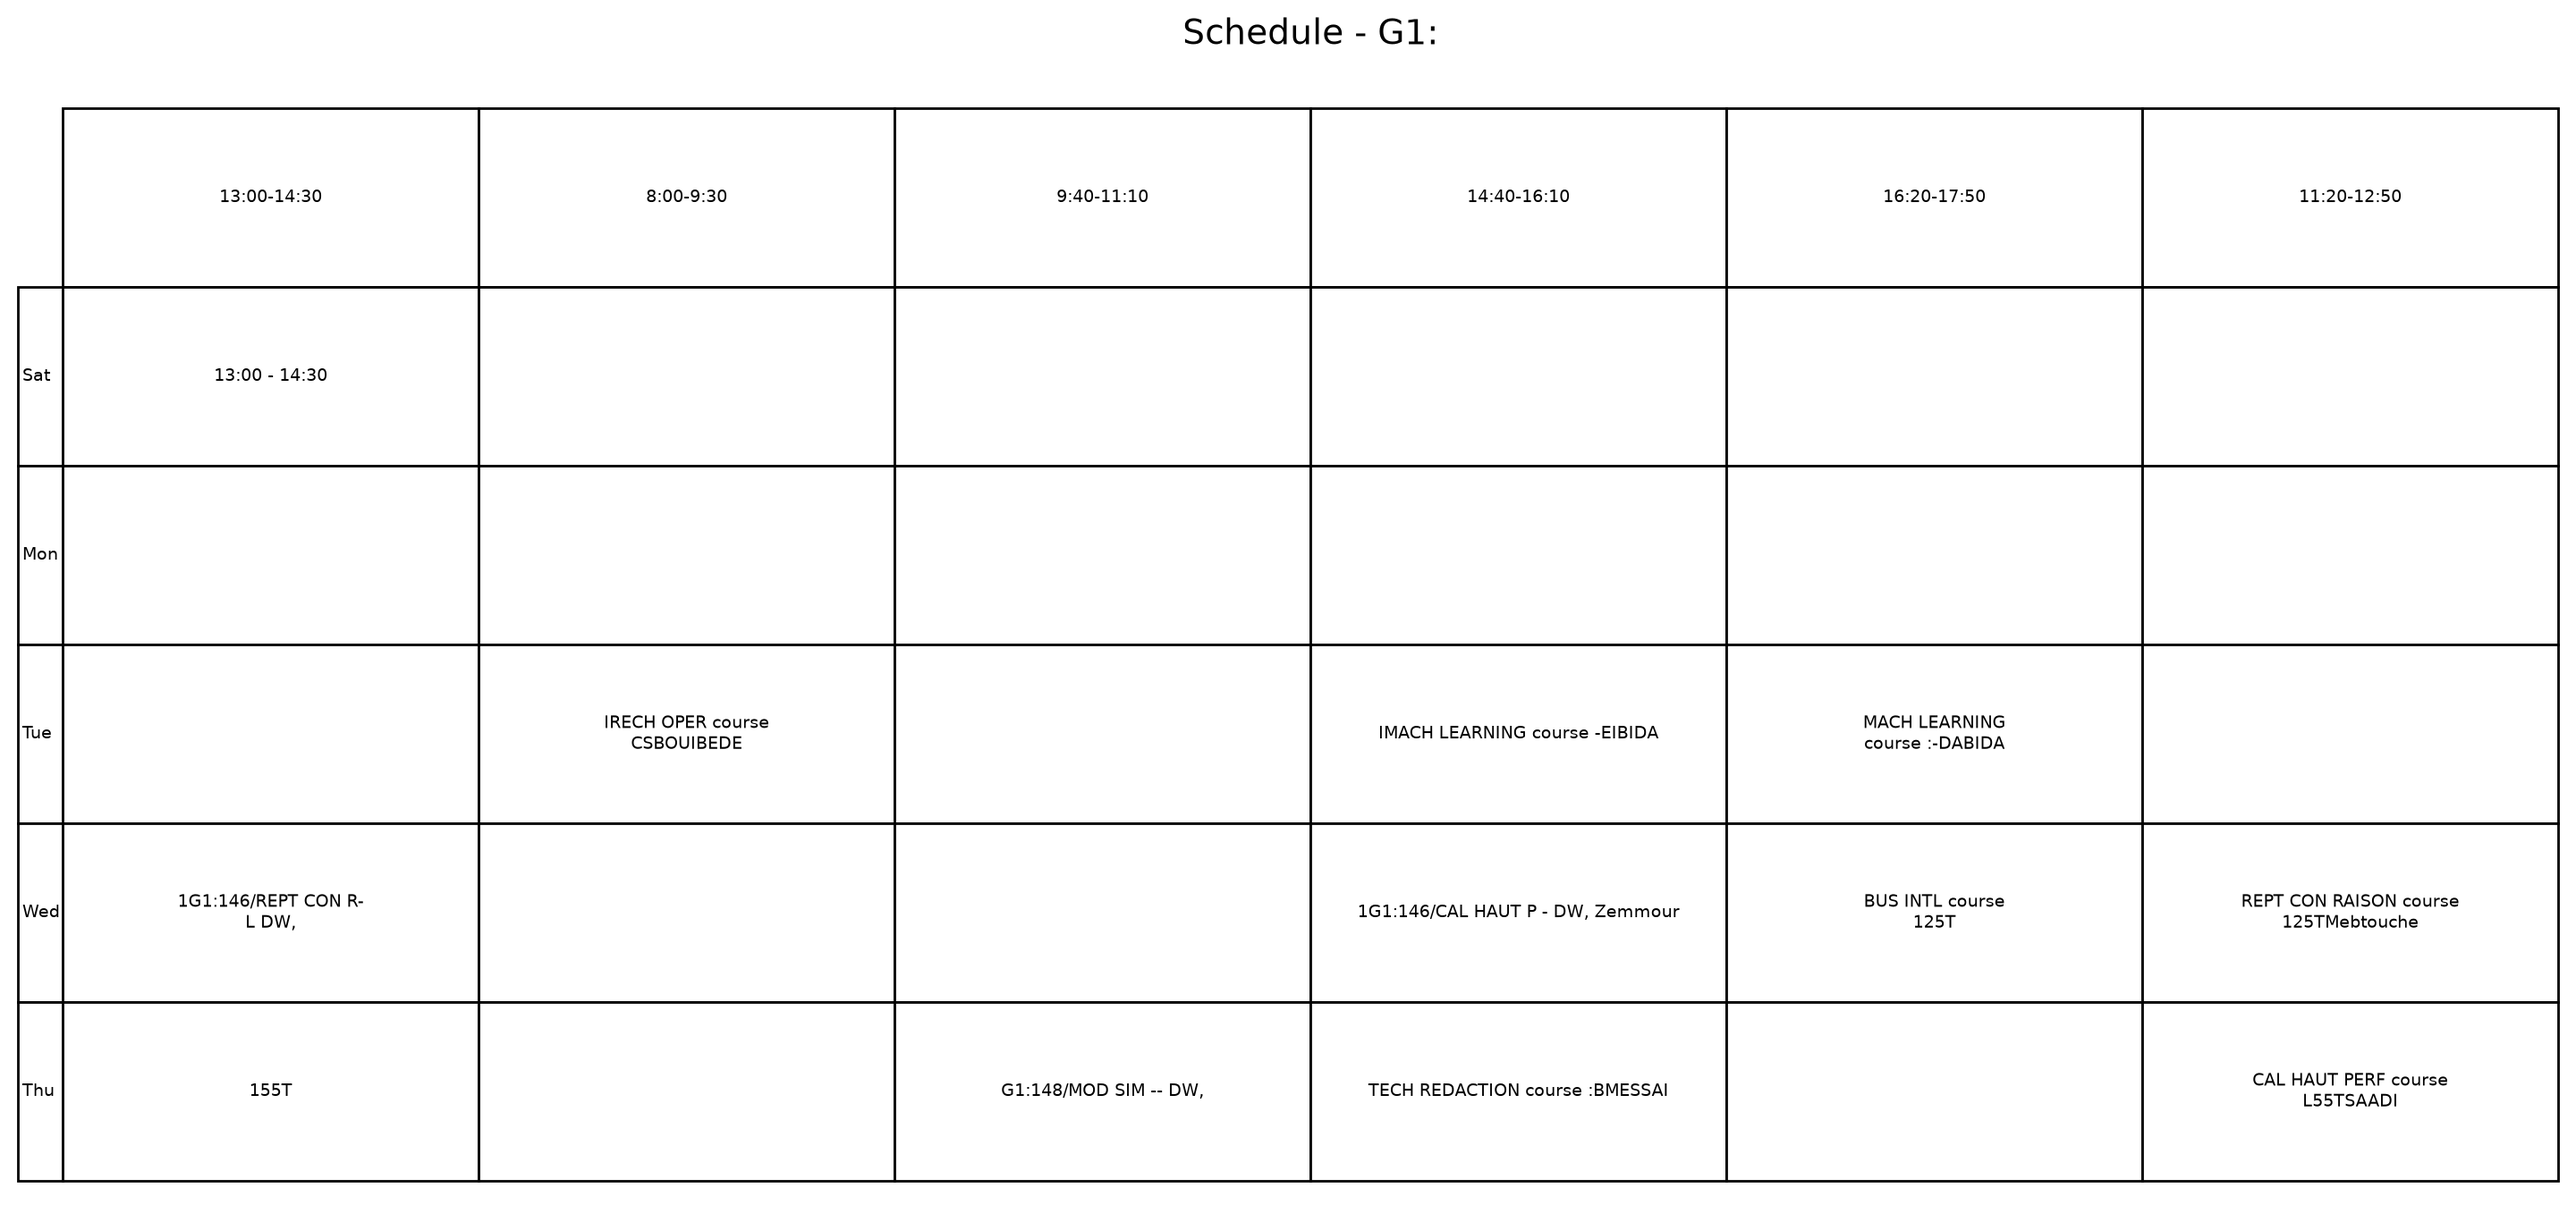
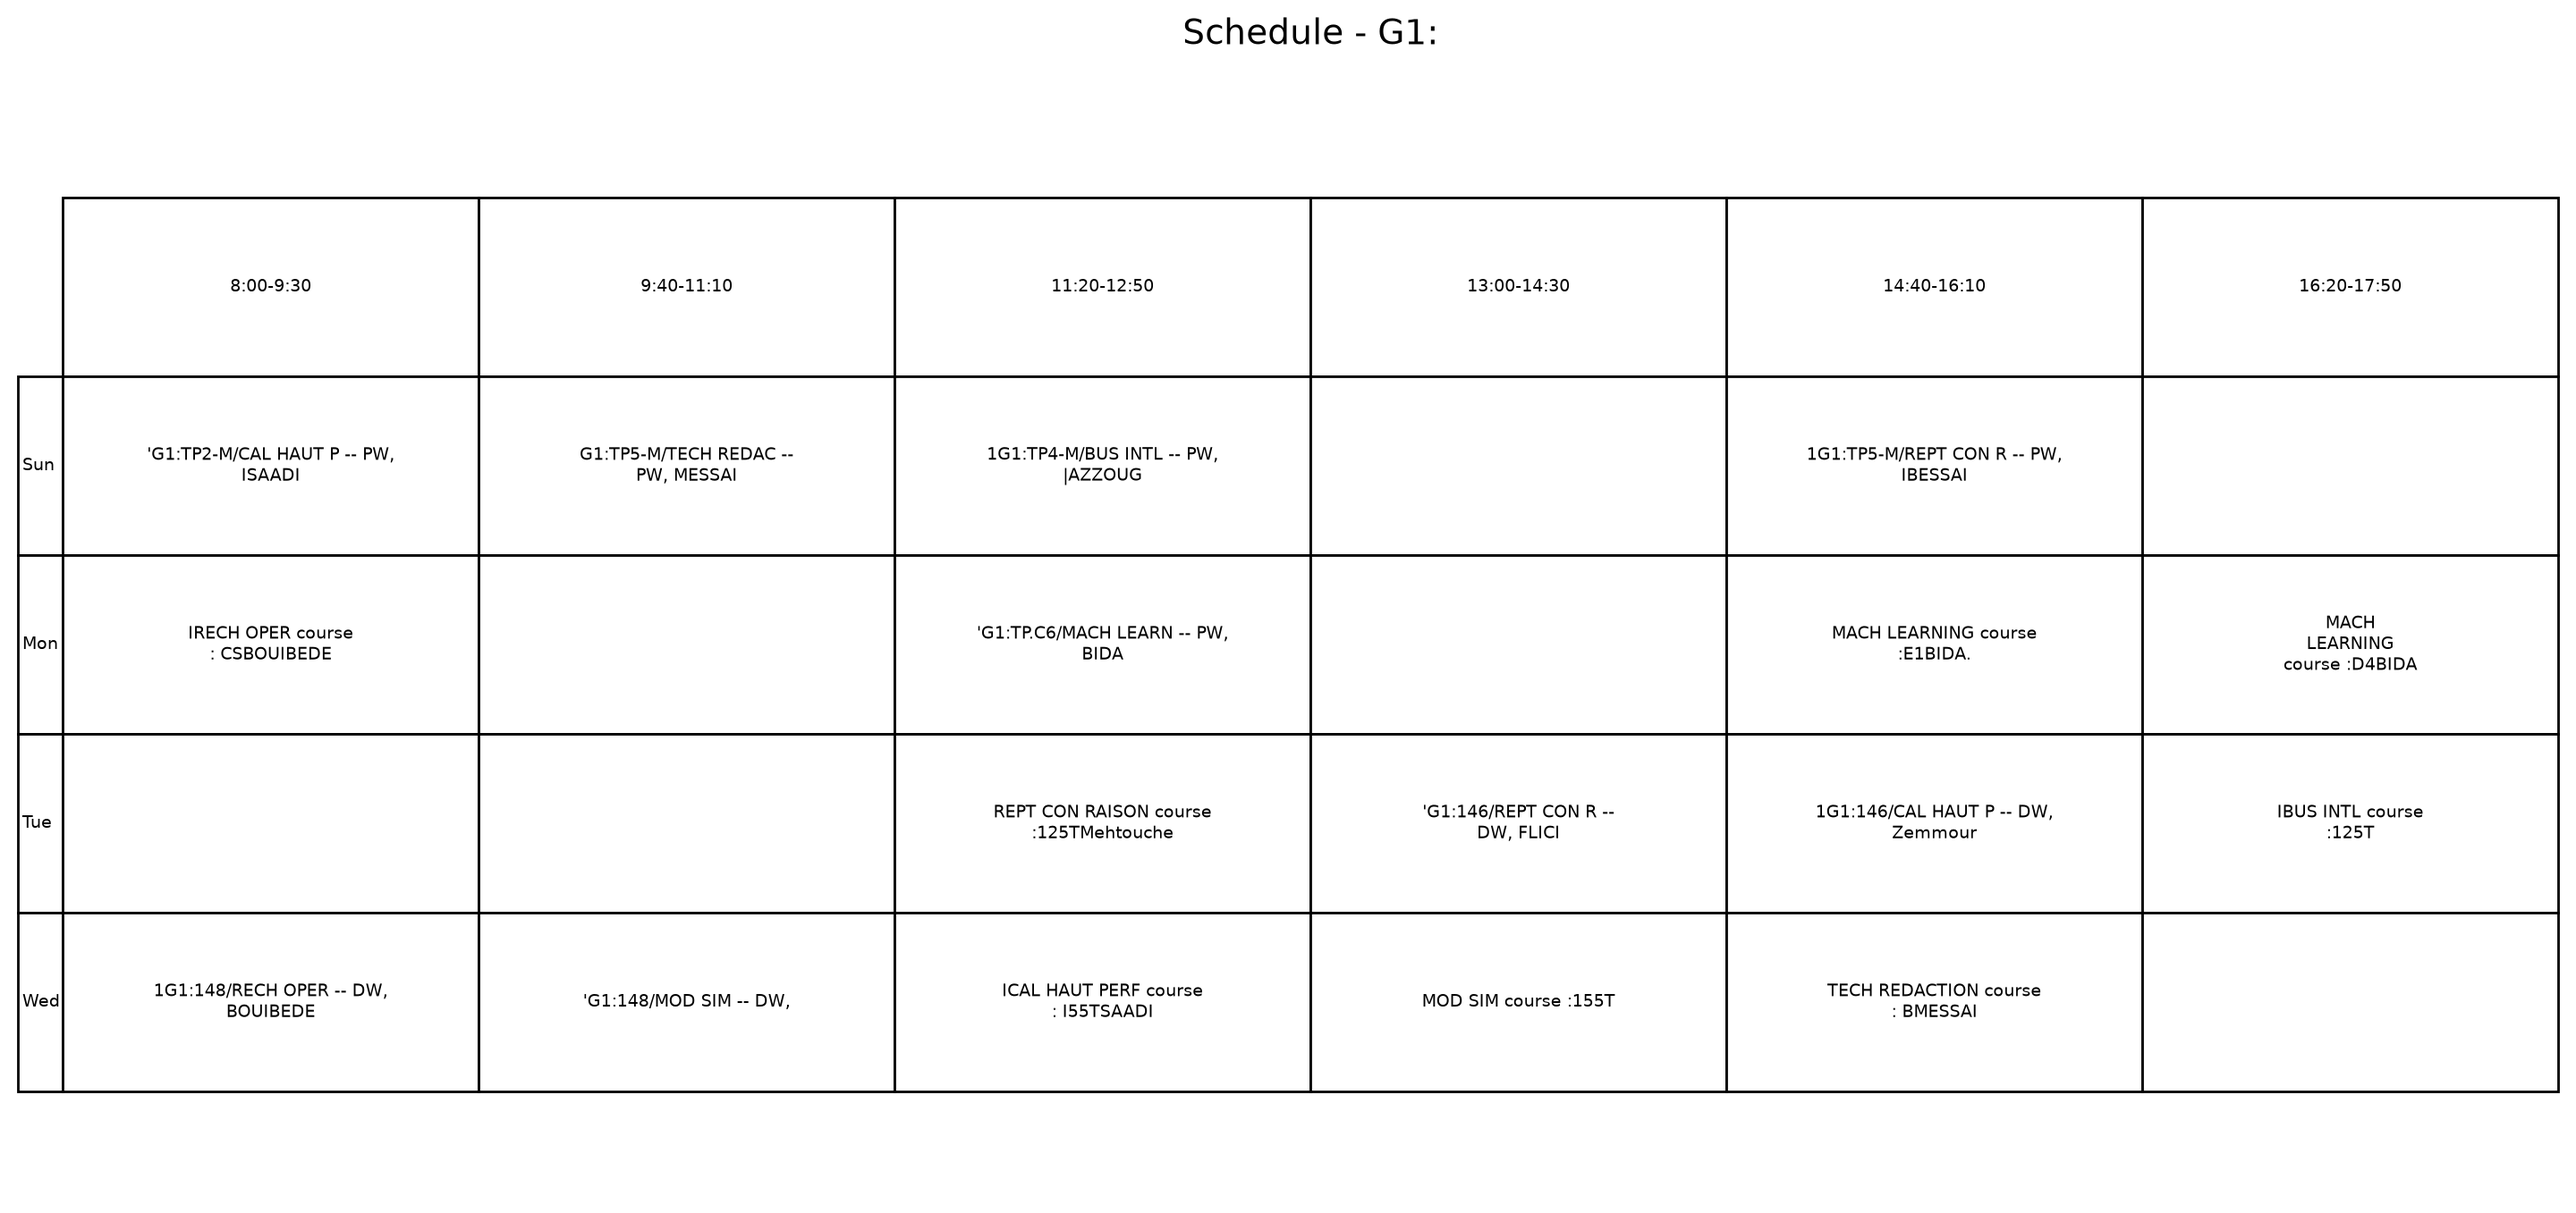
fix: fixed a bug that saved crop images to bin_img.png and overwrite the original binarized image

diff --git a/grid.py b/grid.py
@@ -6,14 +6,15 @@ IMG_PATH = "input/image1.png"
 OUTPUT_DIR = Path("preprocessed_image")
 img = cv2.imread(IMG_PATH)
 
-def binarize(img):
+def binarize(img,save=False):
     if img is None:
         raise ValueError(f"Could not read image: {IMG_PATH}")
     gray = cv2.cvtColor(img, cv2.COLOR_BGR2GRAY)
     _, bin_img = cv2.threshold(gray,0,255,cv2.THRESH_BINARY_INV+cv2.THRESH_OTSU)
-    OUTPUT_DIR.mkdir(parents=True, exist_ok=True)
-    output_path = OUTPUT_DIR / "bin_img.png"
-    cv2.imwrite(str(output_path),bin_img)
+    if save:
+        OUTPUT_DIR.mkdir(parents=True, exist_ok=True)
+        output_path = OUTPUT_DIR / "bin_img.png"
+        cv2.imwrite(str(output_path),bin_img)
     return bin_img
 
 def keep_long_lines(bw,horizontal=True, scale=20):
@@ -42,7 +43,7 @@ def merge_close(indices, gap=4):
     return groups 
 
 def detect_grid(img,min_fill=0.3):
-    bw = binarize(img)
+    bw = binarize(img,save=True)
     h,w = bw.shape
 
     horiz = keep_long_lines(bw,horizontal=True)

diff --git a/cell.py b/cell.py
@@ -20,7 +20,7 @@ def extract_cells(xs,ys):
         fill cells matrix 
         each cell with its x,y coordinates
     """
-    for j in range(len(ys)-1):
+    for j in range(1,len(ys)-1):
 
         for i in range(len(xs)-1):
 

diff --git a/ocr.py b/ocr.py
@@ -13,7 +13,7 @@ data = ast.literal_eval(content.strip())
 
 records = []
 
-for r , row in enumerate(data):
+for r , row in enumerate(data[1:]):
     day = row[0]
 
     for c , cell in enumerate(row[1:],start=1):
